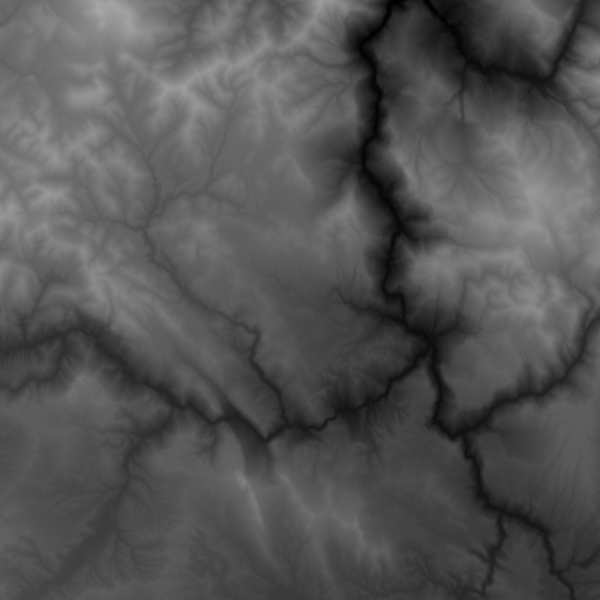
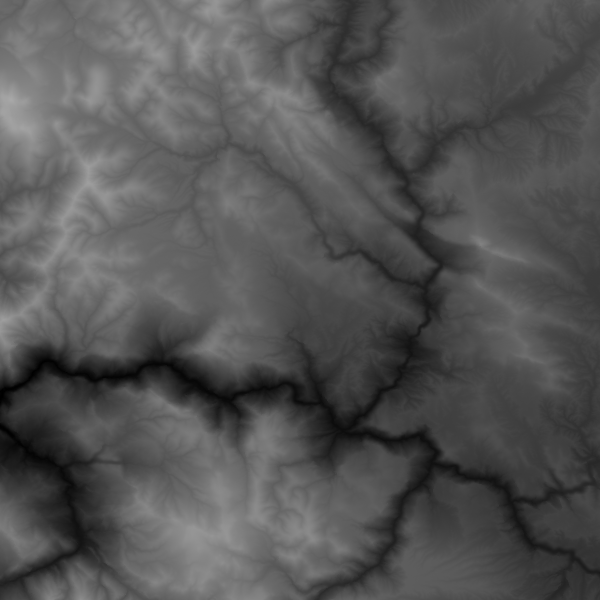
have a func to find shortest dist, and line func, need func to get values for the line

diff --git a/pathfinder.py b/pathfinder.py
@@ -1,4 +1,4 @@
-from PIL import Image
+from PIL import Image, ImageColor, ImageDraw
 
 large_mountain = "elevation_large.txt"
 small_mountain = "elevation_small.txt"
@@ -21,7 +21,7 @@ large_elevation_diff = int((large_max_elevation)-(large_min_elevation))
 # print(elevation_diff)
 
 dimensions_large = len(large_coordinates), len(large_coordinates[0])
-print (dimensions_large)
+# print (dimensions_large)
 
 def grayscale(elevation, min, max):
 # func to covert elevation to RBG value
@@ -31,10 +31,10 @@ def grayscale(elevation, min, max):
 im = Image.new('RGB', (1201,1201))
 for x in range(1201):
         for y in range (1201):
-            im.putpixel((x,y), grayscale(large_coordinates[x][y], large_min_elevation, large_max_elevation))
+            im.putpixel((x,y), grayscale(large_coordinates[y][x], large_min_elevation, large_max_elevation))
 im.save('elevation_large.png')
 Image.open('elevation_large.png')
-print(im.getpixel((4,80)))
+# print(im.getpixel((4,80)))
 
 
 # def small_mountain_ele():
@@ -54,36 +54,55 @@ elevation_diff = int((max_elevation)-(min_elevation))
 # print(elevation_diff)
 
 dimensions_small = len(small_coordinates), len(small_coordinates[0])
-print (dimensions_small)
+# print (dimensions_small)
+
+# im = Image.new('RGB', (600,600))
+# for x in range(600):
+#         for y in range (600):
+#             im.putpixel((x,y), grayscale(small_coordinates[y][x], min_elevation, max_elevation))
+# im.save('elevation_small.png')
+# Image.open('elevation_small.png')
+# print(im.getpixel((4,80)))
+
+
+# testing
+
+# convert coord into pixel tup?
+# path_list = [(0,1),(0,2),(0,4),(0,5),(0,6),(2,6),(3,6)]
+# path_list = [(small_coordinates[0][1], small_coordinates[0][2], small_coordinates[0][3], small_coordinates[0][4]]
+
+def find_shortest_distance(elevation, top, middle, bottom):
+    top_distance = elevation - top
+    middle_distance = elevation - middle
+    bottom_distance = elevation - bottom
+    lowest_dist = min([top_distance, middle_distance, bottom_distance])
+    if lowest_dist == top_distance:
+        return top_distance
+    if lowest_dist == middle_distance:
+        return middle_distance
+    else: 
+        return bottom_distance
+
+
 
 im = Image.new('RGB', (600,600))
+draw = ImageDraw.Draw(im)
 for x in range(600):
         for y in range (600):
-            im.putpixel((x,y), grayscale(small_coordinates[x][y], min_elevation, max_elevation))
+            im.putpixel((x,y), grayscale(small_coordinates[y][x], min_elevation, max_elevation))
+# for x in range(0, 30):
+#     for y in range(0, 30):
+#         draw.line(path_list, (150,150,00))
+
+
+        #     starting_point = small_coordinates[1][0]
 im.save('elevation_small.png')
 Image.open('elevation_small.png')
 print(im.getpixel((4,80)))
+print(im.getpixel(small_coordinates[0][1]))
+print(im.getpixel((0,0)))
+print(small_coordinates[0][1])
 
 
 
-
-
-
-
-
-
-
-
-
-
-
-# with open('testgrid.txt', "r") as file:
-#     for line in file.readlines():
-#         test_coordinates.append(line.split())
-#         # for each line we are spliting, and adding to list of lists
-#     # print(test_coordinates) 
-
-# min_testelevation = int(min(map(min, test_coordinates)))
-# max_testelevation = int(max(map(max, test_coordinates)))
-# print(min_testelevation)
-# print(max_testelevation)
+# for coord in small_coordinates:
